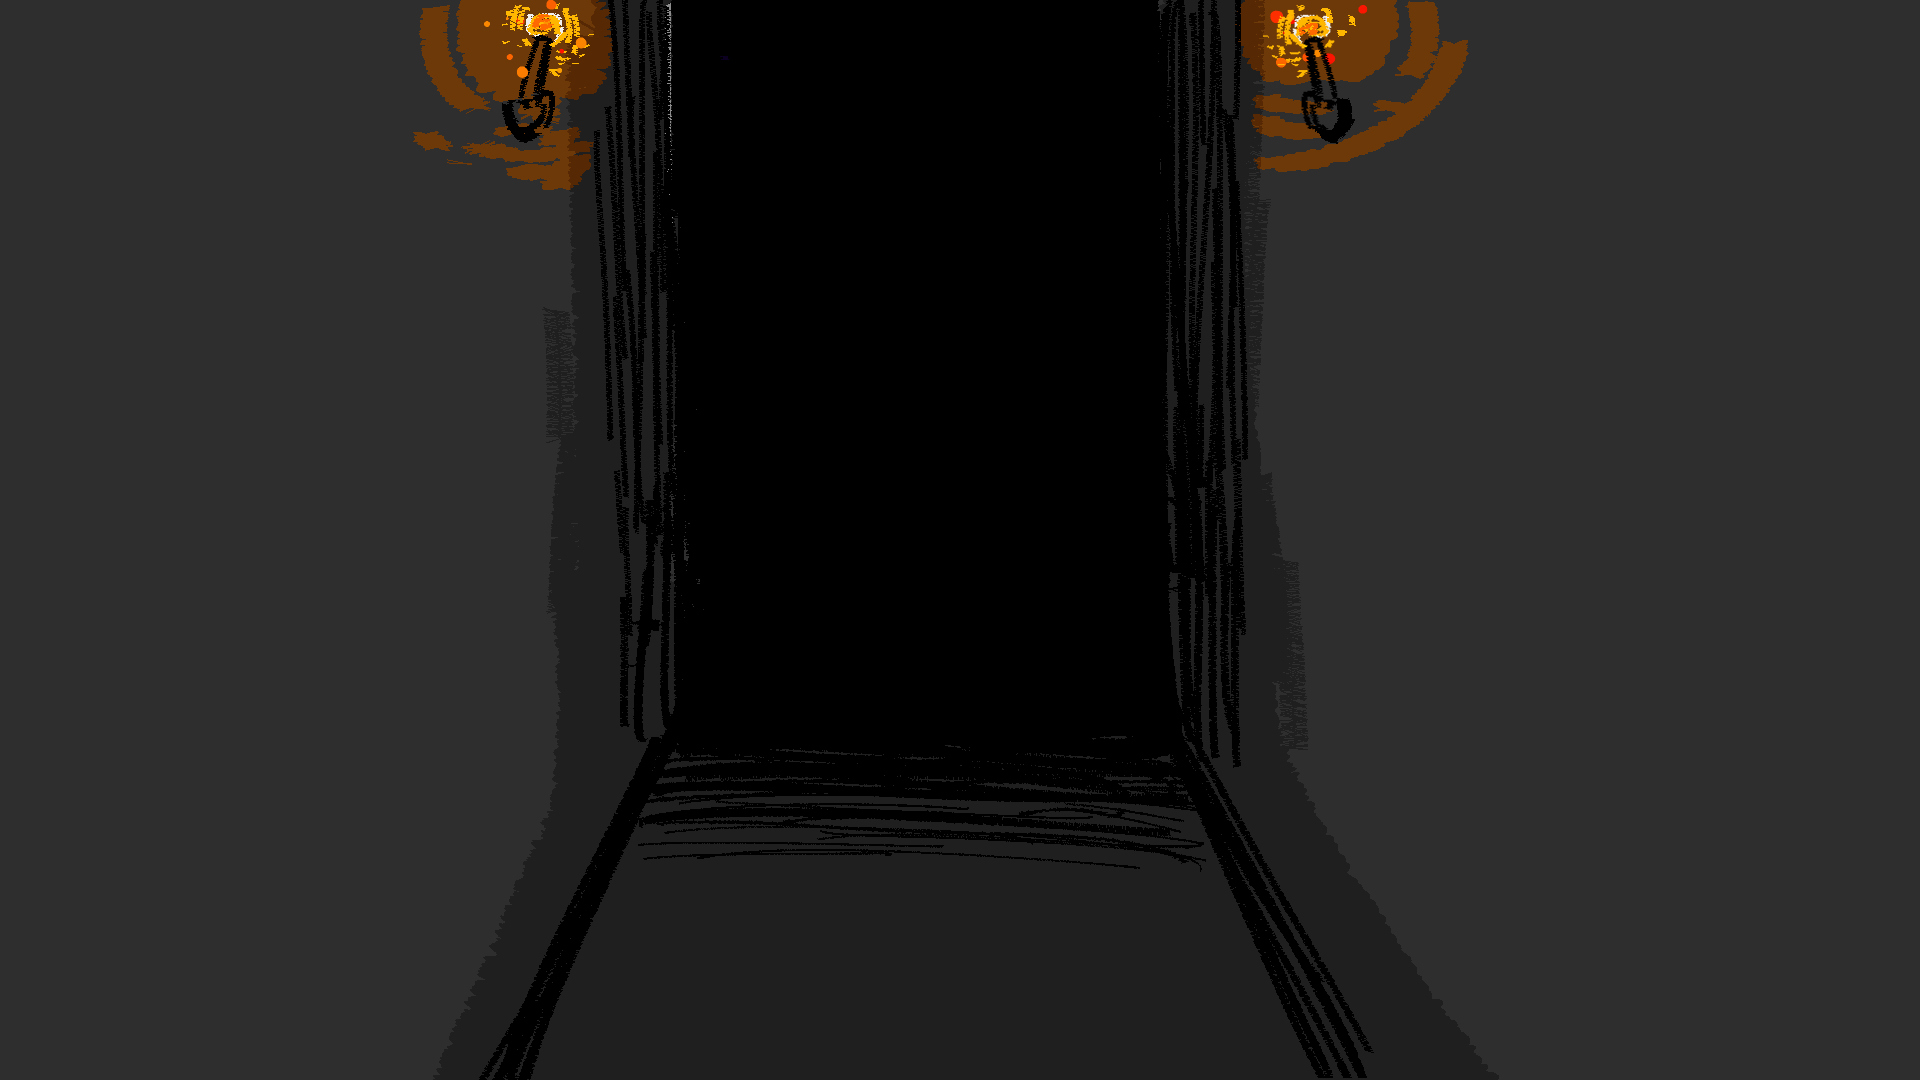
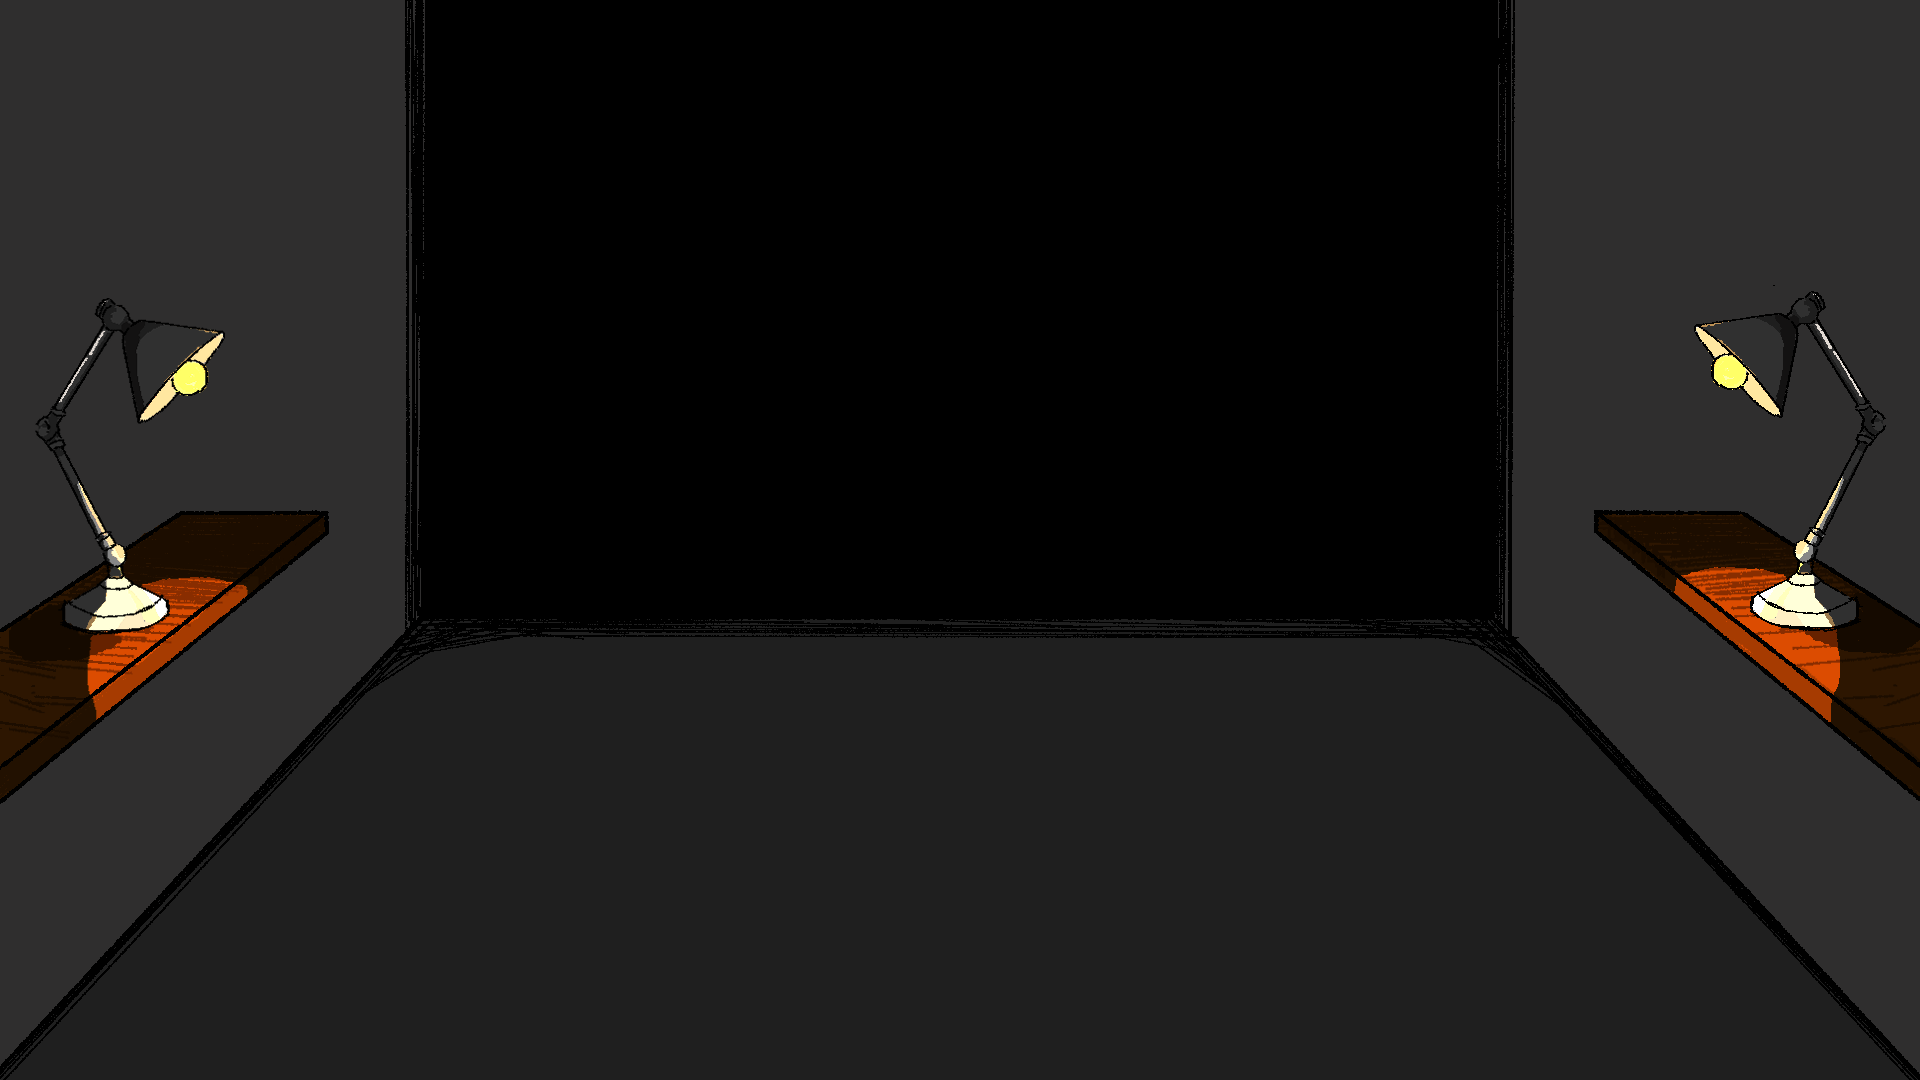
update background and cat

diff --git a/index.html b/index.html
@@ -14,14 +14,22 @@ table{border-collapse:collapse;width:100%;font-size:14px}td,th{border-bottom:1px
 .stage{position:fixed;inset:0;z-index:5;overflow:hidden;background:#000;display:grid;place-items:center}
 /* 橫式（電腦）版面 16:9；直式（手機）版面 9:19。數值都是相對於 .world 的百分比 */
 .world{position:relative;overflow:hidden;width:min(100vw,177.78vh);width:min(100vw,177.78dvh);aspect-ratio:16/9;
- --bg:url(assets/bg_pc.png);--dw:41.67%;--dt:3.7%;--oy:32.5%;--tw:57.3%;--tt:21.3%;--g1h:78%;--g1x:-2%;--g1b:-5%;--g2h:80%;--g2x:16.3%;--g2b:-.3%;--g3h:60%;--gy:-41%;--mw:20%;--mb:13%;--is:3.1cqw}
+ --bg:url(assets/bg_pc.png);--dw:41.67%;--dt:-.8%;--oy:32.5%;--tw:57.3%;--tt:21.3%;--g1h:78%;--g1x:-2%;--g1b:-5%;--g2h:80%;--g2x:16.3%;--g2b:-.3%;--g3h:60%;--gy:-41%;--mw:19%;--mb:34%;--is:3.1cqw}
 @media(max-aspect-ratio:1/1){.world{width:min(100vw,47.37vh);width:min(100vw,47.37dvh);aspect-ratio:9/19;
  --bg:url(assets/bg_phone.png);--dw:120.4%;--dt:16.27%;--oy:25%;--tw:112%;--tt:39.43%;--g1h:56%;--g1x:15%;--g1b:-8.4%;--g2h:60%;--g2x:39%;--g2b:0%;--g3h:42%;--gy:-38%;--mw:46%;--mb:9%;--is:3.7cqw}}
 .scene{position:absolute;inset:0;perspective:700px;background:#8c8c8c var(--bg) center/100% 100% no-repeat}
 .dvs{position:absolute;left:50%;top:var(--dt);width:var(--dw);aspect-ratio:1;translate:-50% 0}.dvs img,.dvs svg{position:absolute;inset:0;width:100%;height:100%}.dv{position:absolute;inset:0;-webkit-mask-image:linear-gradient(#000 84%,transparent 96%);mask-image:linear-gradient(#000 84%,transparent 96%)}
 .dh{transform-origin:49% 51%;animation:nod 5s ease-in-out infinite}@keyframes nod{0%,100%{rotate:-1.2deg}50%{rotate:1.2deg}}
 .tb{position:absolute;left:50%;top:var(--tt);width:var(--tw);aspect-ratio:1;translate:-50% 0;z-index:1;container-type:inline-size;color:#111}
-.tb img{position:absolute;inset:0;width:100%;height:100%}
+.tb img{position:absolute;inset:0;width:100%;height:100%}.tpc{display:none}
+.cat{position:absolute;inset:0;pointer-events:none;display:none}.cat img{position:absolute;inset:0;width:100%;height:100%;opacity:0}
+.cat.fd img{transition:opacity .6s}.cat img.cfo{animation:cfo .6s linear both}.cat img.cfi{animation:cfi .6s linear both}@keyframes cfo{from{opacity:1}to{opacity:0}}@keyframes cfi{from{opacity:0}to{opacity:1}}.cat[data-s="2"] .c2_2{animation:c22 1s steps(1) var(--cd,0ms) infinite}@keyframes c22{0%{opacity:0}50%{opacity:1}}/* 貓 2 嚇到時：每 0.5 秒在 2 和 2-2 之間切換 */
+.cat[data-s="1"] .c1,.cat[data-s="2"] .c2,.cat[data-s="3"] .c3{opacity:1}
+/* 電腦版：新桌子是整張 16:9 跟背景疊在一起；桌上的字和愛心位置都是相對整個畫面 */
+@media(min-aspect-ratio:1/1){.cat{display:block}.tb{left:0;top:0;width:100%;aspect-ratio:16/9;translate:none}.tb .tpc{display:block}.tb .tph{display:none}
+ .tb .n{top:71.8%;font-size:3.5cqw;transform:skewX(27deg)}.tb #vb{left:69.8%}.tb #vl{left:78.3%;transform:skewX(31deg)}
+ .tb .inf{left:27.3%;top:68.9%;width:20%;font-size:2.35cqw}
+ .tb .hpd{left:50%;top:57.6%;height:2.3cqw}.tb .hpm{left:11.5%;top:87%;height:3.4cqw}}
 .n{position:absolute;top:52.9%;translate:-50% -50%;transform:skewX(14deg);font-weight:800;font-size:5.6cqw;line-height:1;font-variant-numeric:tabular-nums}
 #vb{left:71.2%}#vl{left:80.6%;color:#c0392b}.hp{position:absolute;display:flex;gap:1.2cqw;translate:-50% -50%}.tb .hp img{position:static;width:auto;height:100%}.hp .lost{opacity:.2;filter:grayscale(1)}.hpd{left:50%;top:41.6%;height:3.6cqw}.hpm{left:12.5%;top:64%;height:6.2cqw;translate:0 -50%}
 .inf{position:absolute;left:25.5%;top:51%;width:24%;translate:-50% -50%;display:flex;flex-direction:column;align-items:center;font-size:3.5cqw;font-weight:800;line-height:1.45;white-space:nowrap;text-align:center}.inf i{font-style:normal;color:#c0392b}
@@ -84,18 +92,20 @@ body.portal .top,body.portal .bar,body.portal #msg,body.portal .btns,body.portal
 .imeta button{width:auto;margin:0;padding:.35cqw .9cqw;font-size:.95cqw}
 .ihint{position:absolute;left:0;right:0;bottom:3%;text-align:center;font-size:1.3cqw;color:#ddd;text-shadow:0 .2cqw .5cqw #000;pointer-events:none}
 .lb{position:absolute;left:36.6%;top:12.6%;width:23.4%;height:26.5%;box-sizing:border-box;padding:.7cqw .9cqw;background:rgba(18,18,18,.62);border:.22cqw solid #0c0c0c;border-radius:.4cqw;box-shadow:0 .3cqw .9cqw rgba(0,0,0,.45);font-size:1.02cqw;color:#e6e6e6;overflow:hidden;z-index:3}
-.lbh{display:flex;justify-content:space-between;align-items:center;margin-bottom:.45cqw;font-size:1.15cqw}
+.lbh{display:flex;justify-content:space-between;align-items:center;margin-bottom:.45cqw;font-size:1.15cqw}.lbh2{margin-top:-.25cqw}
 .lbh button{width:auto;margin:0 0 0 .3cqw;padding:.12cqw .5cqw;font-size:.85cqw;background:transparent;color:#aaa;border:.1cqw solid #555;border-radius:.3cqw}
 .lbh button.on{color:#141414;background:#e9e2b4;border-color:#e9e2b4}
 .lbl{list-style:none;margin:0;padding:0}
 .lbl li,.lbme{display:flex;gap:.6cqw;align-items:baseline;line-height:1.55;margin:0}
 .lbl i{font-style:normal;width:1.6cqw;text-align:right;color:#999}
 .lbl span{flex:1;overflow:hidden;text-overflow:ellipsis;white-space:nowrap}
-.lbl b{font-variant-numeric:tabular-nums}
+.lbl b{font-variant-numeric:tabular-nums;min-width:2.2em;text-align:right}
+.lbl em{font-style:normal;font-size:.8em;color:#888;border:.08cqw solid #555;border-radius:.25cqw;padding:0 .25cqw;line-height:1.3}
+.hb .lbl em{border-width:1px;border-radius:3px;padding:0 3px}
 .lbl .me,.lbme{color:#ffe98a}.lbme{border-top:.08cqw dashed #555;margin-top:.2cqw}
 .lbl li:first-child b,.lbl li:first-child span{color:#fff}
 .lbe{margin:.6cqw 0;color:#999}
-.hb{display:grid;grid-template-columns:1fr 1fr;gap:16px}.hb h2{font-size:1rem;margin:.8em 0 .3em}.hb .lbl i{width:2em}.hb .lbl{font-size:.95rem}
+.hb{display:grid;grid-template-columns:1fr 1fr;gap:4px 16px}.hb h2{font-size:1rem;margin:.8em 0 .3em}.hb .lbl i{width:2em}.hb .lbl{font-size:.95rem}
 .ihint.warn{color:#ffb3a8;animation:fin .3s}
 .ready .leaf{animation:dglow 1.6s ease-in-out infinite}@keyframes dglow{50%{filter:brightness(1.3) drop-shadow(0 0 1cqw #ffd27a)}}
 .shake .leaf{animation:ishake .35s}@keyframes ishake{25%{translate:-.4% 0}75%{translate:.4% 0}}
@@ -207,18 +217,21 @@ function askName(){closeIntro();const chg=!!name;app.innerHTML=`<h1>惡魔輪盤
   name=v;ls.set('bk_name',v);home()};$('#nok').onclick=go;if(chg)$('#nno').onclick=home;$('#nm').onkeydown=e=>{if(e.key==='Enter')go()};$('#nm').focus()}
 function home(){if(!name)return askName();app.onclick=null;clearInterval(tm);const wide=innerWidth>innerHeight;wide?intro():showHome();cfgP=loadCfg().then(()=>{if($('#golow'))showHome();if($('.intro'))signText()});
  const rb=()=>loadBoard().then(()=>drawBoard());rb();setTimeout(rb,4000)/* 剛打完的那局可能還在上傳，晚一點再抓一次 */}
-/* ---- 排行榜：只讀試算表目前的 events 分頁（每位玩家各模式取最高分）；加上這台裝置剛打完、可能還沒寫進試算表的成績 ---- */
-let BD=ls.get('bk_board')||null,lbm='low';
-function loadBoard(){if(!C.url)return Promise.resolve();return fetch(C.url+'?board=1&t='+Date.now()).then(r=>r.json()).then(j=>{if(j&&Array.isArray(j.low)){BD=j;ls.set('bk_board',j)}}).catch(()=>{})}
-function mine(sc){const a=ls.get('bk_mine')||[];a.push({pid,name,risk,score:sc,ts:twTime()});ls.set('bk_mine',a.slice(-300))}
+/* ---- 排行榜：只讀試算表目前的 events 分頁；分「低／高波動 × 無／有道具」四榜，每位玩家在每一榜取最高分；加上這台裝置剛打完、可能還沒寫進試算表的成績 ---- */
+let BD=ls.get('bk_board')||null,lbr='low',lbi=IT?'on':'off';if(BD&&!Array.isArray(BD.low_off))BD=null;
+const itk=v=>/^on:[1-9]/.test(String(v||''))?'on':'off',LBN={off:'無道具',on:'有道具',low:'低波動',high:'高波動'};
+function loadBoard(){if(!C.url)return Promise.resolve();return fetch(C.url+'?board=1&t='+Date.now()).then(r=>r.json()).then(j=>{if(j&&Array.isArray(j.low_off)){BD=j;ls.set('bk_board',j)}}).catch(()=>{})}
+function mine(sc){const a=ls.get('bk_mine')||[];a.push({pid,name,risk,item:itk(itemMode),score:sc,ts:twTime()});ls.set('bk_mine',a.slice(-300))}
 function boardList(m){const since=BD&&BD.since||'',a=(BD&&BD[m]||[]).map(x=>Object.assign({},x));
- (ls.get('bk_mine')||[]).filter(x=>x.risk===m&&x.ts>=since).forEach(x=>{const o=a.find(y=>y.pid===x.pid);if(!o)a.push({pid:x.pid,name:x.name,score:x.score});else if(x.score>o.score){o.score=x.score;o.name=x.name}});
+ (ls.get('bk_mine')||[]).filter(x=>x.risk+'_'+x.item===m&&x.ts>=since).forEach(x=>{const o=a.find(y=>y.pid===x.pid);if(!o)a.push({pid:x.pid,name:x.name,risk:x.risk,score:x.score});else if(x.score>o.score){o.score=x.score;o.name=x.name;o.risk=x.risk}});
  a.sort((p,q)=>q.score-p.score);a.forEach((x,i)=>{x.rank=i&&x.score===a[i-1].score?a[i-1].rank:i+1});return a}
 function boardHTML(m,n){const a=boardList(m),me=a.find(x=>x.pid===pid),top=a.slice(0,n);
  return(top.length?`<ol class=lbl>${top.map(x=>`<li class="${x.pid===pid?'me':''}"><i>${x.rank}</i><span>${esc(x.name)}</span><b>${x.score}</b></li>`).join('')}</ol>`:'<p class=lbe>還沒有紀錄</p>')+(me&&me.rank>n?`<p class="lbl me lbme"><i>${me.rank}</i><span>${esc(me.name)}（你）</span><b>${me.score}</b></p>`:'')}
-function drawBoard(m){if(m)lbm=m;const el=$('#lb');if(el){el.innerHTML=`<div class=lbh><b>排行榜</b><span>${['low','high'].map(k=>`<button data-m=${k} class="${lbm===k?'on':''}" aria-pressed=${lbm===k}>${k==='low'?'低波動':'高波動'}</button>`).join('')}</span></div>${boardHTML(lbm,5)}`;
-  el.querySelectorAll('button').forEach(b=>b.onclick=e=>{e.stopPropagation();drawBoard(b.dataset.m)})}
- const hb=$('#hb');if(hb)hb.innerHTML=['low','high'].map(k=>`<div><h2>排行榜・${k==='low'?'低波動':'高波動'}</h2>${boardHTML(k,10)}</div>`).join('')}
+function drawBoard(r,it){if(r)lbr=r;if(it)lbi=it;const el=$('#lb');
+ if(el){const tb=(k,cur,f)=>`<button data-${f}=${k} class="${cur===k?'on':''}" aria-pressed=${cur===k}>${LBN[k]}</button>`;
+  el.innerHTML=`<div class=lbh><b>排行榜</b><span>${['low','high'].map(k=>tb(k,lbr,'r')).join('')}</span></div><div class="lbh lbh2"><span></span><span>${['off','on'].map(k=>tb(k,lbi,'i')).join('')}</span></div>${boardHTML(lbr+'_'+lbi,5)}`;
+  el.querySelectorAll('button').forEach(b=>b.onclick=e=>{e.stopPropagation();drawBoard(b.dataset.r,b.dataset.i)})}
+ const hb=$('#hb');if(hb)hb.innerHTML=['low','high'].map(r=>['off','on'].map(i=>`<div><h2>${LBN[r]}・${LBN[i]}</h2>${boardHTML(r+'_'+i,10)}</div>`).join('')).join('')}
 /* ---- 電腦版開場：牌子選模式、開關選道具、按門進入 ---- */
 let pick='';
 /* 牌子下半部的說明文字：每一行各自傾斜，貼合牌子的透視（座標以 1920×1080 為準：左端、右端各自從上到下的範圍） */
@@ -250,7 +263,7 @@ function intro(){pick='';app.innerHTML='';let L=$('#ilayer');if(!L){L=document.c
  signText();drawBoard();const iw=$('.iw');
  const sel=m=>{pick=m;['low','high'].forEach(k=>{$('#l'+k).classList.toggle('on',k===m);$('#s'+k).classList.toggle('dim',k!==m);$('#t'+k).classList.toggle('dim',k!==m)});iw.classList.add('ready');drawBoard(m);$('#ih').className='ihint fo';$('#ih').textContent=(m==='low'?'低波動':'高波動（哪有賭狗天天輸）')+'・道具'+(IT?'開':'關')+(SPD>1?'・加速':'')+'　→　按門進入'};
  $('#hlow').onclick=()=>sel('low');$('#hhigh').onclick=()=>sel('high');
- $('#itog').onclick=()=>{IT=!IT;ls.set('bk_item',IT);const t=$('#itog');$('#pon').classList.toggle('on',IT);t.setAttribute('aria-pressed',IT);t.setAttribute('aria-label','道具：'+(IT?'開':'關'));if(pick)sel(pick)};
+ $('#itog').onclick=()=>{IT=!IT;ls.set('bk_item',IT);drawBoard(0,IT?'on':'off');const t=$('#itog');$('#pon').classList.toggle('on',IT);t.setAttribute('aria-pressed',IT);t.setAttribute('aria-label','道具：'+(IT?'開':'關'));if(pick)sel(pick)};
  $('#stog').onclick=()=>{SPD=SPD>1?1:2;ls.set('bk_spd',SPD);const t=$('#stog');$('#son').classList.toggle('on',SPD>1);t.setAttribute('aria-pressed',SPD>1);t.setAttribute('aria-label','加速：'+(SPD>1?'開':'關'));if(pick)sel(pick)};
  $('#rn').onclick=askName;$('#ex').onclick=csv;
  $('#hdoor').onclick=()=>{if(iw.classList.contains('go')||iw.classList.contains('quick'))return;if(sessOver()){$('#ih').className='ihint fo warn';$('#ih').textContent='這位玩家的 '+(C.G/60)+' 分鐘試玩時間已到，請按右上角「換玩家」';return}if(!pick){iw.classList.remove('shake');void iw.offsetWidth;iw.classList.add('shake');$('#ih').className='ihint fo warn';$('#ih').textContent='先選一個牌子（低波動或高波動）';return}
@@ -273,7 +286,7 @@ function lvl(n,sc,ent){if(quitted)return;hitAt=s&&s.hp===1&&C.lv[s.n-1].hp>1?Dat
 const cls=f=>{const ps=f.aim==='self'||/^self/.test(f.a||''),pf=!ps&&(f.aim||f.a);return`${f.aim?'aim-'+f.aim:''} ${f.a?'a-'+f.a:''} ${f.r?'r-'+f.r:''} ${ps?'ps':pf?'pf':''} ${f.k?'kill':''} ${f.ent?'a-ent':''}`};
 let hitAt=-1e9;
 const im=(n,c)=>`<img class="dh ${c||''}" src="assets/${n}.png" alt="">`;
-['intro_bg','intro_door','intro_low','intro_high','intro_low_light','intro_high_light','intro_props_button','intro_props_button_light','intro_speedup_button','intro_speedup_button_light','back_hair','body','cape','face_1','face_2','face_3','blush1','blush2','eyebrows1','eyes1','eyes2','eyes3','eyeballs1','eyeballs2','eyeballs_for_eyes2','mouth1','mouth2','mouth3','mouth4','mouth5','mouth6','mouth8','table','gun_take','gun_aim','gun_self','demon_take','demon_shot','demon_hand1','demon_hand2','bg_pc','bg_phone','heart'].forEach(n=>{new Image().src='assets/'+n+'.png'});
+['intro_bg','intro_door','intro_low','intro_high','intro_low_light','intro_high_light','intro_props_button','intro_props_button_light','intro_speedup_button','intro_speedup_button_light','back_hair','body','cape','face_1','face_2','face_3','blush1','blush2','eyebrows1','eyes1','eyes2','eyes3','eyeballs1','eyeballs2','eyeballs_for_eyes2','mouth1','mouth2','mouth3','mouth4','mouth5','mouth6','mouth8','table','table_pc','cat1','cat2','cat2_2','cat3','gun_take','gun_aim','gun_self','demon_take','demon_shot','demon_hand1','demon_hand2','bg_pc','bg_phone','heart'].forEach(n=>{new Image().src='assets/'+n+'.png'});
 const BL=m=>m===8?0:m===3?2:1;/* 嘴巴編號 → 腮紅編號 */
 function face(f){if(f.pf){const g=Object.assign({},f);delete g.pf;return`<div class="ph fpre">${f.pf}</div><div class="ph fpost">${face(g)}</div>`}
  const n=s.n,F=C.faces,[l,b]=left(s),act=F.act[n-1],ph=(c,h)=>h?`<div class="ph ${c}">${h}</div>`:'',
@@ -284,7 +297,7 @@ function face(f){if(f.pf){const g=Object.assign({},f);delete g.pf;return`<div cl
  const idle=!f.aim&&!f.a,nv=n===3&&s.hc===1&&b===0&&l>0&&f.a!=='selfl',
  e=f.a==='selfl'?Object.assign({},act,F.hit):nv?Object.assign({},F.idle[n-1],F.nerv):f.aim==='dev'?F.aimed:F.idle[n-1],bl=idle&&e.ball;
  return im('face_'+n)+(BL(e.mouth)?im('blush'+BL(e.mouth)):'')+eyes(e,bl)+im('eyebrows1')+im('mouth'+e.mouth)}
-const scene=(f,pl)=>`<div class=scene><div class=dvs aria-hidden="true"><div class=dv><img class=dh src="assets/back_hair.png" alt=""><img src="assets/body.png" alt=""><img src="assets/cape.png" alt="">${face(f)}</div></div><div class=dk></div><div class=tb><img src="assets/table.png" alt="">${pl}</div><div class=dhs aria-hidden="true"><img class="hh h1" src="assets/demon_take.png" alt=""><img class="hh h2" src="assets/demon_shot.png" alt=""><img class="pa pal" src="assets/demon_hand2.png" alt=""><img class="pa par" src="assets/demon_hand2.png" alt=""><img class="hnd hl" src="assets/demon_hand1.png" alt=""><img class="hnd hr" src="assets/demon_hand1.png" alt=""></div><div class=gw><div class=w1><img src="assets/gun_take.png" alt=""></div><div class=w2><img src="assets/gun_aim.png" alt=""></div><div class=w3><img src="assets/gun_self.png" alt=""></div></div></div>`;
+const scene=(f,pl)=>`<div class=scene>${catHTML()}<div class=dvs aria-hidden="true"><div class=dv><img class=dh src="assets/back_hair.png" alt=""><img src="assets/body.png" alt=""><img src="assets/cape.png" alt="">${face(f)}</div></div><div class=dk></div><div class=tb><img class=tpc src="assets/table_pc.png" alt=""><img class=tph src="assets/table.png" alt="">${pl}</div><div class=dhs aria-hidden="true"><img class="hh h1" src="assets/demon_take.png" alt=""><img class="hh h2" src="assets/demon_shot.png" alt=""><img class="pa pal" src="assets/demon_hand2.png" alt=""><img class="pa par" src="assets/demon_hand2.png" alt=""><img class="hnd hl" src="assets/demon_hand1.png" alt=""><img class="hnd hr" src="assets/demon_hand1.png" alt=""></div><div class=gw><div class=w1><img src="assets/gun_take.png" alt=""></div><div class=w2><img src="assets/gun_aim.png" alt=""></div><div class=w3><img src="assets/gun_self.png" alt=""></div></div></div>`;
 const hearts=(n,m)=>Array.from({length:m},(_,i)=>`<img src="assets/heart.png" alt=""${i<n?'':' class=lost'}>`).join('');
 /* 開槍姿勢 → 舉槍姿勢：先往舉槍的位置移一點，再兩張交叉淡入淡出（24fps 一格一格） */
 function gunPrev(){const st=$('.stage');if(!st||st.classList.contains('kill'))return null;
@@ -321,7 +334,14 @@ SN.forEach(n=>{try{const a=new Audio('assets/'+n+'.mp3');a.preload='auto';AEL[n]
 function unlock(){try{if(!AC){AC=new(window.AudioContext||window.webkitAudioContext)();SN.forEach(n=>fetch('assets/'+n+'.mp3').then(r=>{if(!r.ok)throw 0;return r.arrayBuffer()}).then(b=>new Promise((ok,no)=>AC.decodeAudioData(b,ok,no))).then(d=>{SFX[n]=d}).catch(()=>{}))}
  if(AC.state!=='running')AC.resume();const b=AC.createBufferSource();b.buffer=AC.createBuffer(1,1,22050);b.connect(AC.destination);b.start()}catch(e){}}
 /* 先用 Web Audio（延遲低）；還沒載好或不支援時改用 <audio> */
-function sfx(n){try{if(AC&&SFX[n]&&AC.state==='running'){const b=AC.createBufferSource();b.buffer=SFX[n];b.playbackRate.value=SPD;const g=AC.createGain();g.gain.value=VOL;b.connect(g);g.connect(AC.destination);b.start();return}
+/* ---- 貓：平時固定不動（1 睡覺或 3 坐著）；有人打出實彈就立刻換成 2（嚇到，每 0.5 秒和 2-2 交替），過一下再隨機淡入淡出成 1 或 3 ---- */
+let CAT={s:Math.random()<.5?1:3,until:0};
+const catSet=fd=>{const c=$('.cat');if(!c)return;c.classList.toggle('fd',!!fd);if(c.dataset.s!=String(CAT.s))c.dataset.s=CAT.s};
+function catStartle(){CAT={s:2,until:Date.now()+2200/SPD,t0:Date.now()};const c=$('.cat');if(c)c.style.setProperty('--cd','0ms');catSet(0)}
+setInterval(()=>{if(CAT.s!==2||Date.now()<CAT.until)return;CAT={s:Math.random()<.5?1:3,until:0,p:2,ft:Date.now()};catSet(1)},200);
+/* 畫面重畫時如果正在淡入淡出，新畫面接著同一個進度播完，不會跳掉 */
+function catHTML(){const e=Date.now()-(CAT.ft||0),fd=e<600/SPD;return`<div class=cat data-s=${CAT.s} style="--cd:${-(Date.now()-(CAT.t0||0))*SPD}ms" aria-hidden="true">${[1,2,'2_2',3].map(k=>`<img class="c${k}${fd&&String(k)[0]==String(CAT.p)?' cfo':''}${fd&&k===CAT.s?' cfi':''}" style="animation-delay:${-e*SPD}ms" src="assets/cat${k}.png" alt="">`).join('')}</div>`}
+function sfx(n){if(/^(shut_player|shut_demon)$/.test(n))catStartle();try{if(AC&&SFX[n]&&AC.state==='running'){const b=AC.createBufferSource();b.buffer=SFX[n];b.playbackRate.value=SPD;const g=AC.createGain();g.gain.value=VOL;b.connect(g);g.connect(AC.destination);b.start();return}
  const a=AEL[n];if(a){const c=a.cloneNode();c.volume=VOL;c.playbackRate=SPD;c.preservesPitch=false;c.play().catch(()=>{})}}catch(e){}}
 ['pointerdown','touchend','click','keydown'].forEach(t=>document.addEventListener(t,unlock,true));
 /* 左下角音量 */
